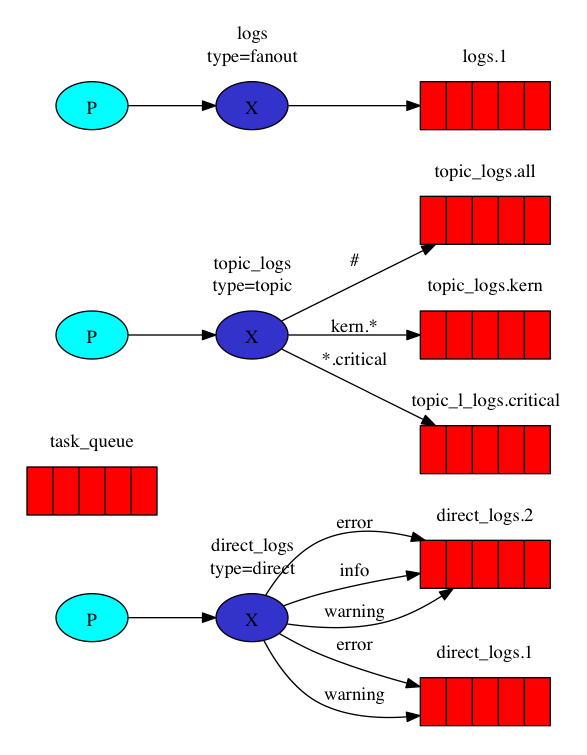
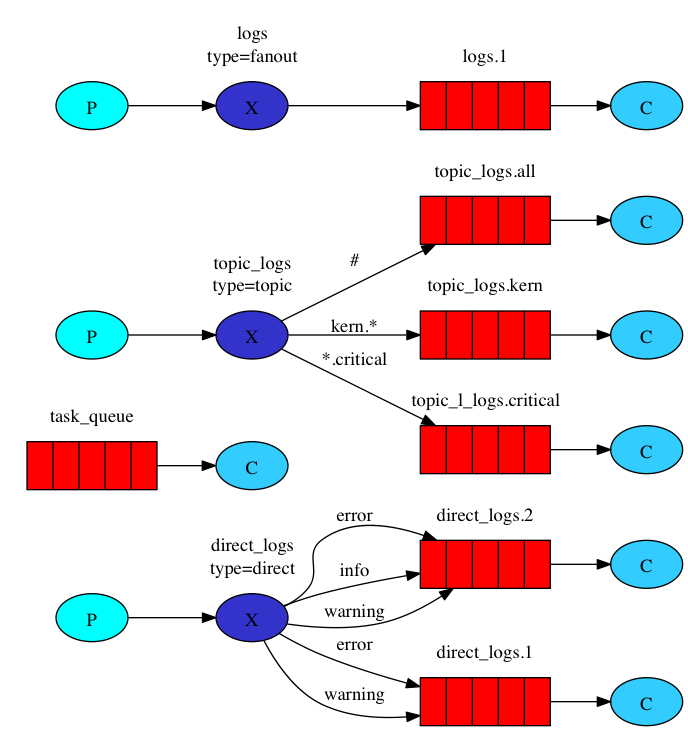
Add support for rendering consumers

diff --git a/rabbitmq_graphviz.py b/rabbitmq_graphviz.py
@@ -5,25 +5,27 @@ import sys
 def escape_id(id_str):
     return id_str.replace('-', '').replace('.', '_')
 
-def render_definitions(write, definitions, render_producers):
+def render_definitions(write, definitions, render_producers, render_consumers):
     write('digraph {')
     write('  bgcolor=transparent;')
     write('  truecolor=true;')
     write('  rankdir=LR;')
     write('  node [style="filled"];\n')
 
-    [render_queue(write, q) for q in definitions['queues']]
+    [render_queue(write, q, render_consumers) for q in definitions['queues']]
     [render_exchange(write, x, render_producers) for x in definitions['exchanges']]
     [render_binding(write, b) for b in definitions['bindings']]
 
     write('}')
 
-def render_queue(write, queue):
+def render_queue(write, queue, render_consumers):
     write('  subgraph cluster_Q_%s {' % escape_id(queue['name']))
     write('    label="%s";' % queue['name'])
     write('    color=transparent;')
     write('    "Q_%s" [label="{||||}", fillcolor="red", shape="record"];' % escape_id(queue['name']))
     write('  }\n')
+    write('  "C_%s" [label="C", fillcolor="#33ccff"];' % escape_id(queue['name']))
+    write('  "Q_%(name)s" -> "C_%(name)s"' % { 'name': escape_id(queue['name'])})
 
 def render_exchange(write, exchange, render_producers):
     write('  subgraph cluster_X_%s {' % escape_id(exchange['name']))
@@ -44,6 +46,7 @@ def parse_args():
     parser.add_argument('-o', '--outfile', nargs='?', type=argparse.FileType('w'), default=sys.stdout,
                         help='Output file')
     parser.add_argument('-p', '--producers', action='store_true', help='Render producers')
+    parser.add_argument('-c', '--consumers', action='store_true', help='Render consumers')    
     return parser.parse_args()    
 
 if __name__ == '__main__':
@@ -56,5 +59,5 @@ if __name__ == '__main__':
         args.outfile.write(s)
         args.outfile.write('\n')
         
-    render_definitions(writer, definitions, args.producers)
+    render_definitions(writer, definitions, args.producers, args.consumers)
     args.outfile.close()
